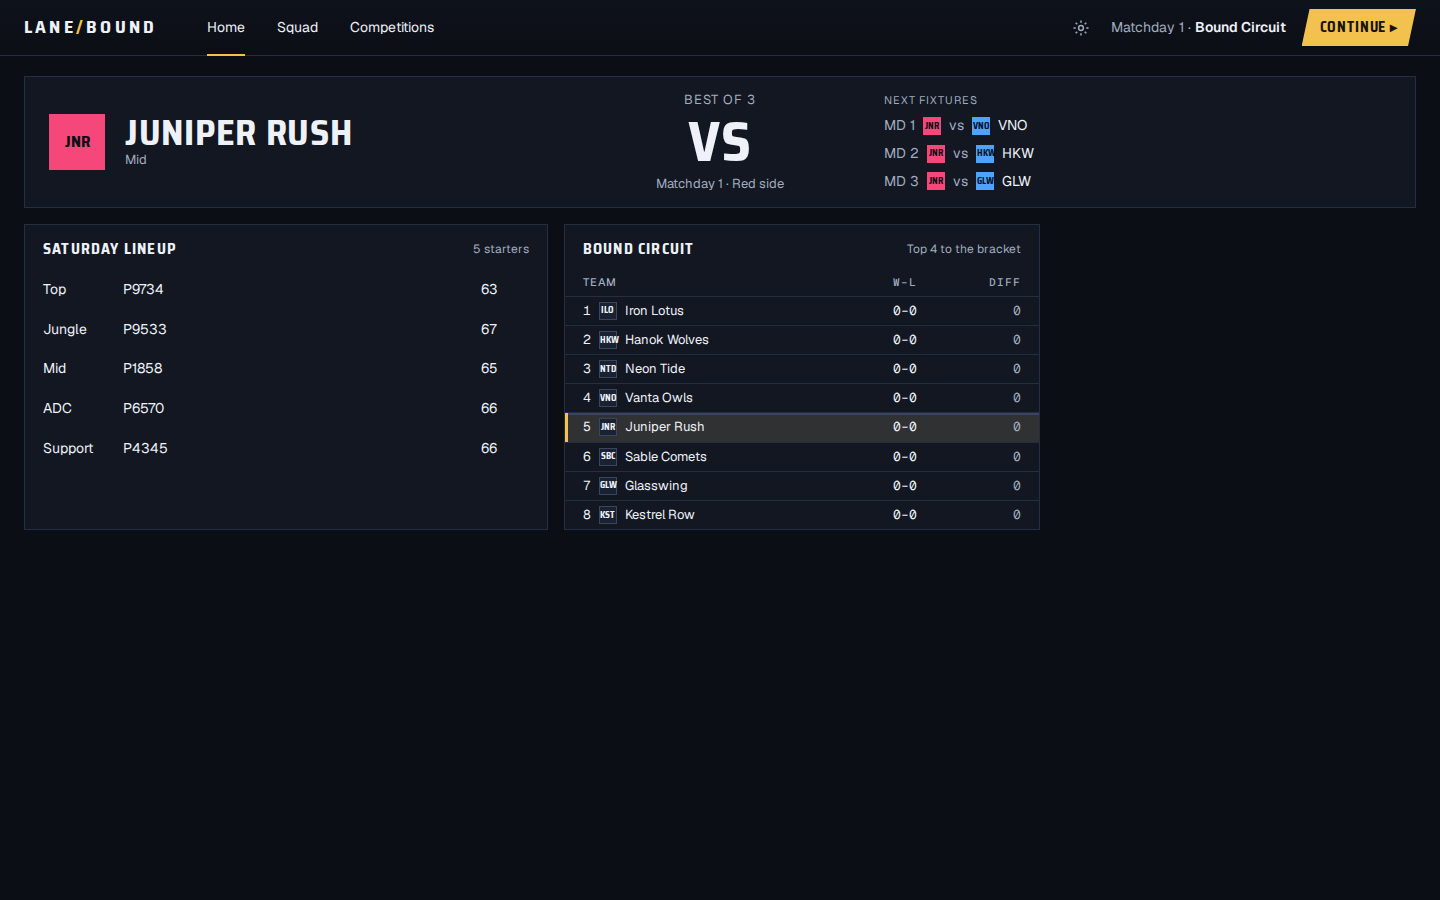
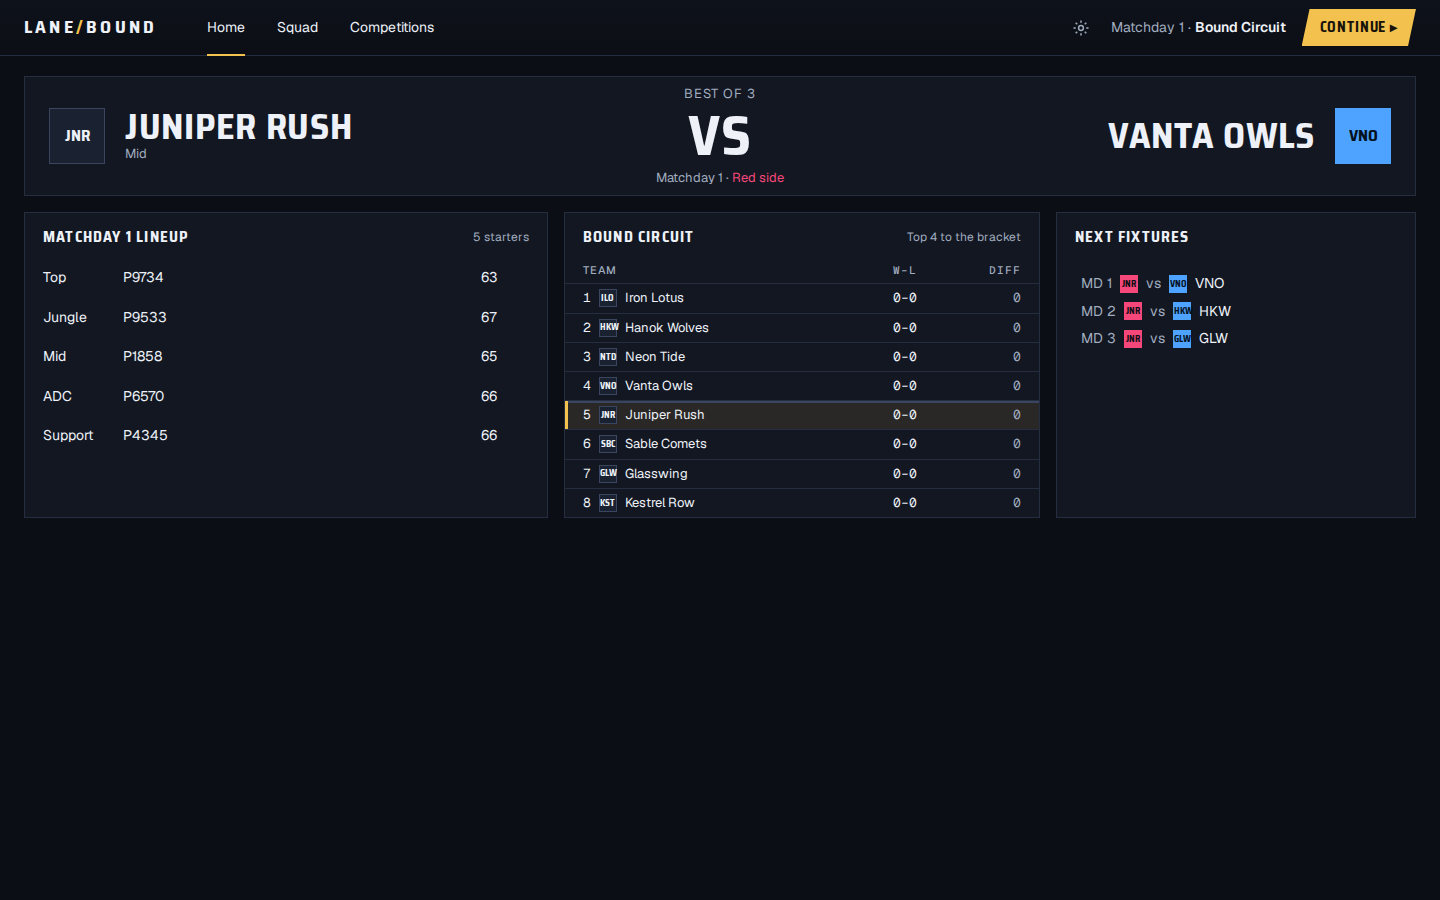
Close the last C4 layout notes from PM and Chief Designer.
The opponent returns beside VS, Next fixtures fill the column under the hero, and the club crest stays neutral. The me row is the action wash on the panel. A disabled primary button is panel-2 until a club is selected. The difficulty pill no longer stretches the card, unsigned players show an em dash, and the lineup title is the matchday.

diff --git a/apps/career/src/CareerApp.tsx b/apps/career/src/CareerApp.tsx
@@ -318,8 +318,11 @@ export function CareerApp() {
                   window.addEventListener(
                     "click",
                     function swallow(event) {
-                      event.stopPropagation();
                       window.removeEventListener("click", swallow, true);
+                      if (event.detail > 1) {
+                        event.stopPropagation();
+                        event.preventDefault();
+                      }
                     },
                     true,
                   );
@@ -406,7 +409,7 @@ function ClubCard({ club, selected, onPick }: { club: Club; selected: boolean; o
     >
       <div className="crest sm">{club.tag}</div>
       <div className="pn">{club.name}</div>
-      <div className="pill">{DIFFICULTY[club.difficulty]}</div>
+      <span className="pill">{DIFFICULTY[club.difficulty]}</span>
       {promise ? <div className="note">{promise}</div> : null}
       {club.recommended_first_save ? <div className="caps">Recommended</div> : null}
     </button>
@@ -451,12 +454,15 @@ function Home({
   const upcoming = fixtures.filter((fixture) => fixture.team_ids.includes(mine.id) && !played.has(fixture.id)).slice(0, 3);
   const next = upcoming[0];
   const side = next && next.team_ids[0] === mine.id ? "Blue" : "Red";
+  const opponentId = next?.team_ids.find((id) => id !== mine.id);
+  const opponent = clubs.find((club) => club.id === opponentId);
+  const opponentSide = side === "Blue" ? "red" : "blue";
   const starters = selectStarters(players, mine.id);
   return (
     <>
       <section className="hero">
         <div className="side">
-          <div className={next ? `crest ${side === "Blue" ? "blue" : "red"}` : "crest"}>{mine.tag}</div>
+          <div className="crest">{mine.tag}</div>
           <div>
             <div className="disp tname">{mine.name}</div>
             <div className="note">{DIFFICULTY[mine.difficulty]}</div>
@@ -465,30 +471,31 @@ function Home({
         <div className="mid">
           <div className="kick">{next ? "Best of 3" : "Bound Circuit"}</div>
           <div className="disp vs">VS</div>
-          <div className="note">{next ? `Matchday ${next.matchday} · ${side} side` : "Fixture pending"}</div>
+          <div className="note">
+            {next ? (
+              <>
+                Matchday {next.matchday} · <span className={side === "Blue" ? "blue" : "red"}>{side} side</span>
+              </>
+            ) : (
+              "Fixture pending"
+            )}
+          </div>
         </div>
-        <div className="next3">
-          <div className="caps">Next fixtures</div>
-          {upcoming.map((fixture) => {
-            const opponent = fixture.team_ids.find((id) => id !== mine.id) ?? fixture.team_ids[1];
-            const ours = fixture.team_ids[0] === mine.id ? "blue" : "red";
-            const theirs = ours === "blue" ? "red" : "blue";
-            return (
-              <div className="tm" key={fixture.id}>
-                <span className="dim">MD {fixture.matchday}</span>
-                <span className={`crest xs ${ours}`}>{mine.tag}</span>
-                <span className="dim">vs</span>
-                <span className={`crest xs ${theirs}`}>{clubTag(clubs, opponent)}</span>
-                <span>{clubTag(clubs, opponent)}</span>
+        <div className="side r">
+          {opponent ? (
+            <>
+              <div className={`crest ${opponentSide}`}>{opponent.tag}</div>
+              <div>
+                <div className="disp tname">{opponent.name}</div>
               </div>
-            );
-          })}
+            </>
+          ) : null}
         </div>
       </section>
       <div className="grid3">
         <section className="card">
           <div className="ch">
-            <h3>Saturday lineup</h3>
+            <h3>{next ? `Matchday ${next.matchday} lineup` : "Lineup"}</h3>
             <span className="meta">{starters.length} starters</span>
           </div>
           {starters.map((player, index) => (
@@ -505,6 +512,27 @@ function Home({
             <span className="meta">Top 4 to the bracket</span>
           </div>
           <League clubs={clubs} standings={standings} mine={mine.id} />
+        </section>
+        <section className="card">
+          <div className="ch">
+            <h3>Next fixtures</h3>
+          </div>
+          <div className="next3">
+            {upcoming.map((fixture) => {
+              const other = fixture.team_ids.find((id) => id !== mine.id) ?? fixture.team_ids[1];
+              const ours = fixture.team_ids[0] === mine.id ? "blue" : "red";
+              const theirs = ours === "blue" ? "red" : "blue";
+              return (
+                <div className="tm" key={fixture.id}>
+                  <span className="dim">MD {fixture.matchday}</span>
+                  <span className={`crest xs ${ours}`}>{mine.tag}</span>
+                  <span className="dim">vs</span>
+                  <span className={`crest xs ${theirs}`}>{clubTag(clubs, other)}</span>
+                  <span>{clubTag(clubs, other)}</span>
+                </div>
+              );
+            })}
+          </div>
         </section>
       </div>
     </>
@@ -672,7 +700,7 @@ function Players({
               <td className="rolecol">{ROLE[player.primary_slot]}</td>
               <td>{player.name}</td>
               <td className="n">{player.ovr}</td>
-              <td data-testid={`signature-${player.id}`}>{arenaCard(player.signature_archive[0] ?? "")?.name ?? ""}</td>
+              <td data-testid={`signature-${player.id}`}>{arenaCard(player.signature_archive[0] ?? "")?.name ?? "—"}</td>
             </tr>
           ))}
         </tbody>

diff --git a/apps/career/e2e/c4-verify5.spec.ts b/apps/career/e2e/c4-verify5.spec.ts
@@ -1,0 +1,79 @@
+import { expect, test } from "playwright/test";
+
+test.beforeEach(async ({ page }) => {
+  await page.goto("/");
+  await page.evaluate(() => indexedDB.deleteDatabase("lanebound-career"));
+  await page.goto("/");
+});
+
+test("club pick, home, and unsigned players match the verify notes", async ({ page }) => {
+  await page.setViewportSize({ width: 1440, height: 900 });
+  await page.getByRole("button", { name: "New career" }).click();
+  const pill = page.getByTestId("club-juniper-rush").locator(".pill");
+  await expect(pill).toHaveText("Mid");
+  const shape = await pill.evaluate((el) => {
+    const card = el.closest("button");
+    const pillBox = el.getBoundingClientRect();
+    const cardBox = card?.getBoundingClientRect();
+    return {
+      tag: el.tagName,
+      narrower: cardBox ? pillBox.width < cardBox.width - 8 : false,
+    };
+  });
+  expect(shape.tag).toBe("SPAN");
+  expect(shape.narrower).toBe(true);
+
+  const start = page.getByRole("button", { name: "Start career" });
+  await expect(start).toBeDisabled();
+  const disabledPaint = await start.evaluate((el) => getComputedStyle(el).backgroundColor);
+  expect(disabledPaint).toBe("rgb(26, 33, 48)");
+
+  await page.getByTestId("club-juniper-rush").click();
+  await expect(start).toBeEnabled();
+  const enabledPaint = await start.evaluate((el) => getComputedStyle(el).backgroundColor);
+  expect(enabledPaint).toBe("rgb(242, 193, 78)");
+  await start.click();
+
+  await expect(page.getByRole("heading", { name: "Matchday 1 lineup" })).toBeVisible();
+  await expect(page.getByRole("heading", { name: "Saturday lineup" })).toHaveCount(0);
+  await expect(page.locator(".hero .side.r .tname")).toHaveText("Vanta Owls");
+  await expect(page.locator(".hero .side").first().locator(".crest")).not.toHaveClass(/\b(blue|red)\b/);
+  await expect(page.locator(".hero .side.r .crest")).toHaveClass(/\b(blue|red)\b/);
+  const sidePaint = await page.locator(".hero .mid .note span").evaluate((el) => getComputedStyle(el).color);
+  const sideWord = await page.locator(".hero .mid .note span").innerText();
+  expect(sidePaint).toBe(sideWord.startsWith("Red") ? "rgb(245, 71, 122)" : "rgb(77, 163, 255)");
+
+  const columns = await page.locator(".grid3").evaluate((el) => {
+    const tracks = getComputedStyle(el).gridTemplateColumns.split(" ").filter((part) => part.length > 0);
+    return { tracks: tracks.length, children: el.children.length };
+  });
+  expect(columns).toEqual({ tracks: 3, children: 3 });
+  await expect(page.locator(".grid3").getByRole("heading", { name: "Next fixtures" })).toBeVisible();
+
+  const pixel = await page.locator(".board tr.me td").nth(1).screenshot();
+  const painted = await page.evaluate(async (bytes) => {
+    const blob = new Blob([new Uint8Array(bytes)], { type: "image/png" });
+    const bitmap = await createImageBitmap(blob);
+    const canvas = document.createElement("canvas");
+    canvas.width = bitmap.width;
+    canvas.height = bitmap.height;
+    const context = canvas.getContext("2d");
+    if (!context) return null;
+    context.drawImage(bitmap, 0, 0);
+    const mid = context.getImageData(Math.floor(bitmap.width / 2), Math.floor(bitmap.height / 2), 1, 1).data;
+    return [mid[0], mid[1], mid[2]];
+  }, [...pixel]);
+  expect(painted).not.toBeNull();
+  expect(Math.abs(painted![0] - 40)).toBeLessThan(8);
+  expect(Math.abs(painted![1] - 40)).toBeLessThan(8);
+  expect(Math.abs(painted![2] - 38)).toBeLessThan(8);
+
+  await page.getByRole("button", { name: "Squad" }).click();
+  const signatures = page.locator("[data-testid^=signature-]");
+  await expect(signatures.first()).toHaveText("—");
+
+  await page.getByRole("button", { name: "Competitions" }).click();
+  await page.getByRole("button", { name: "Bracket" }).click();
+  const gap = await page.locator(".bracket + .note").evaluate((el) => Number.parseFloat(getComputedStyle(el).marginTop));
+  expect(gap).toBeGreaterThanOrEqual(12);
+});

diff --git a/apps/career/src/app.css b/apps/career/src/app.css
@@ -18,6 +18,7 @@ button.tab { background: transparent; color: inherit; border: 0; font: inherit; 
 .grid3 { display: grid; grid-template-columns: 1.1fr 1fr 360px; gap: 16px; min-height: 0; }
 .clubs { display: grid; grid-template-columns: repeat(4, 1fr); gap: 12px; }
 .clubpick { text-align: left; padding: 16px; cursor: pointer; width: 100%; }
+.clubpick .pill { align-self: flex-start; }
 .clubpick.on { outline: 2px solid var(--c-action); }
 .menu { height: 100vh; display: grid; place-items: center; }
 .menu .card { width: 420px; padding: 28px; display: grid; gap: 12px; }
@@ -30,6 +31,14 @@ button.tab { background: transparent; color: inherit; border: 0; font: inherit; 
 .board tr.me td:first-child { box-shadow: inset 3px 0 var(--c-action); }
 .board tr.cut.me td:first-child { box-shadow: inset 3px 0 var(--c-action), inset 0 2px 0 var(--c-line-2); }
 button:disabled { opacity: 0.45; cursor: not-allowed; }
+button.btn-primary:disabled {
+  opacity: 1;
+  background: var(--c-panel-2);
+  color: var(--c-faint);
+  border: 1px solid var(--c-line-2);
+  clip-path: none;
+  cursor: not-allowed;
+}
 .board td, .board th { padding-top: 5px; padding-bottom: 5px; }
 .rolecol { width: 90px; }
 .wrap.pick { gap: 8px; }
@@ -43,6 +52,7 @@ button:disabled { opacity: 0.45; cursor: not-allowed; }
 .bracket { display: grid; grid-template-columns: 1fr 28px 1fr; gap: 12px; align-items: stretch; }
 .semis { display: grid; gap: 16px; align-content: center; }
 .bridge { border-top: 1px solid var(--c-line-2); border-bottom: 1px solid var(--c-line-2); border-right: 1px solid var(--c-line-2); margin: 28px 0; }
+.bracket + .note { margin-top: 12px; }
 .card.now { border-color: var(--c-line-2); }
 .days { display: grid; gap: 12px; }
 .overlay { position: fixed; inset: 0; background: color-mix(in srgb, var(--c-field) 72%, transparent); display: grid; place-items: center; z-index: 20; }
@@ -58,4 +68,3 @@ button:disabled { opacity: 0.45; cursor: not-allowed; }
 .match { border: 1px solid var(--c-line); padding: 12px; display: grid; gap: 6px; }
 .warn { color: var(--c-warn); }
 .good { color: var(--c-good); }
-.me { background: var(--c-panel-2); }

diff --git a/apps/career/e2e/c4-disabled.spec.ts b/apps/career/e2e/c4-disabled.spec.ts
@@ -12,8 +12,10 @@ test("a disabled Continue does not look enabled", async ({ page }) => {
   await expect(button).toHaveAttribute("aria-disabled", "true");
   const style = await button.evaluate((el) => {
     const computed = getComputedStyle(el);
-    return { opacity: Number(computed.opacity), cursor: computed.cursor };
+    return { opacity: Number(computed.opacity), cursor: computed.cursor, background: computed.backgroundColor, color: computed.color };
   });
-  expect(style.opacity).toBeLessThan(1);
   expect(style.cursor).toBe("not-allowed");
+  expect(style.opacity).toBe(1);
+  expect(style.background).toBe("rgb(26, 33, 48)");
+  expect(style.color).toBe("rgb(135, 146, 166)");
 });

diff --git a/apps/career/e2e/c4.spec.ts b/apps/career/e2e/c4.spec.ts
@@ -41,6 +41,7 @@ test.beforeEach(async ({ page }) => {
 });
 
 test("eight clubs, Juniper highlighted, table, fixtures, save and reload", async ({ page }) => {
+  test.setTimeout(60_000);
   await page.getByRole("button", { name: "New career" }).click();
   await expect(page.getByTestId("club-juniper-rush")).toHaveClass(/rec/);
   await expect(page.getByTestId("club-juniper-rush")).toContainText("Recommended");

diff --git a/lab/c4/REPORT.md b/lab/c4/REPORT.md
@@ -22,6 +22,8 @@ Series flow, mixed-runner rejection, and the game-3 fearless reset were already 
 
 Sub-tabs use `.subtabs`: 44px, a bottom rule, and a 2px `--c-action` underline. Difficulty reads Favourite / Mid / Underdog. Our club uses `tr.me` in the table and on our fixtures. The top-four line is 2px `--c-line-2`. Settings is the gear icon with `aria-label` Settings, and Playwright checks that header labels do not overflow or overlap at 1440 and 1280. Club promises are the eight C-R2-7 lines, verbatim, in one table. A missing id would hide the line. The menu save summary sits under Continue and is hidden when there is no save.
 
+The last C4 pass puts the opponent’s crest and name on the right of VS. That crest is side-coloured. The club crest on the left stays neutral. Next fixtures sit in the third column under the hero. The me row is the action wash on the panel, about #282826, not a grey panel-2 fill under the wash. A disabled Start career uses panel-2, faint text, and a line-2 border, and turns gold once a club is selected. The difficulty pill does not stretch the card. Unsigned players show an em dash. The lineup title is Matchday N. The bracket note has 12px above it. Shots of 03, 16b, 19, and 06 were retaken at 1440×900, 1280×900, and 1280×800.
+
 ## Proof
 
 | Check | Exit |
